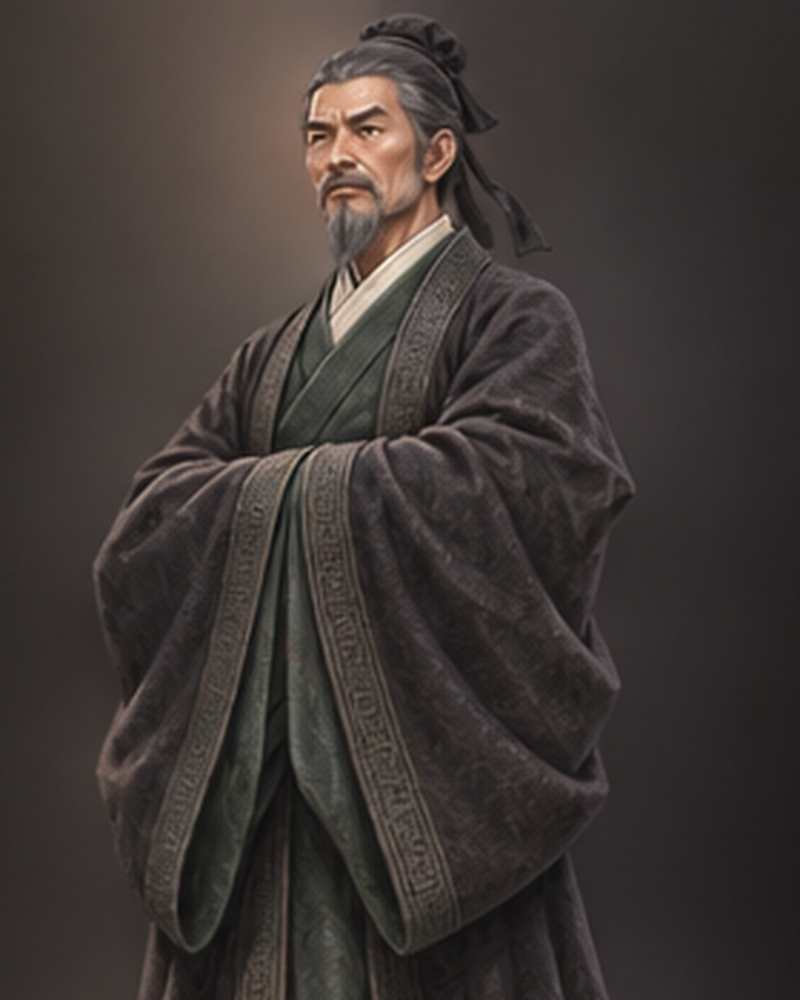
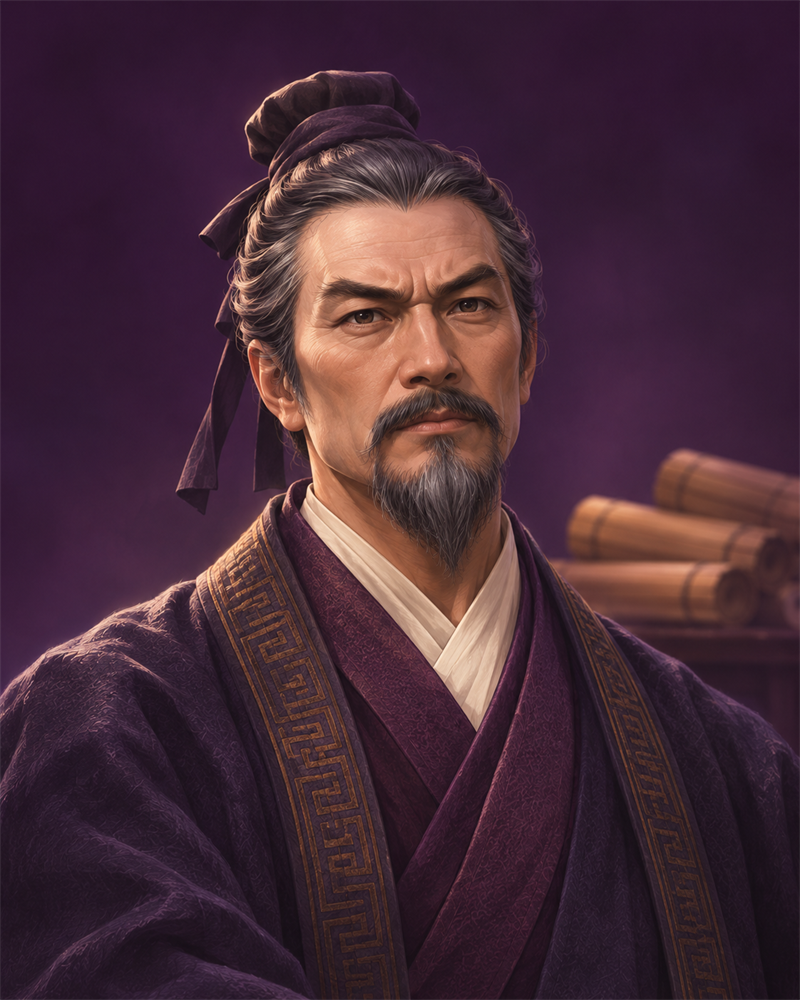
Add 23 character portraits and quote card illustrations

diff --git a/docs/illustrations-20261107/prompts.md b/docs/illustrations-20261107/prompts.md
@@ -1,0 +1,95 @@
+# 제작 프롬프트
+
+제작 도구: 내장 image_gen. 참고 이미지의 화풍과 기본 인물 그림을 사용하여 생성.
+
+## portrait-siddhartha.png
+
+Use case: illustration-story. Generate ONE finished individual image. Input image is STYLE REFERENCE ONLY; do not borrow the European man's facial features or loose wavy hairstyle. Main subject MUST read clearly as an adult ancient northern Indian man, with warm medium-brown skin, dark brown eyes, distinctly South Asian facial features and long straight black hair swept neatly back into a visible small low tied bun, no voluminous loose curls. Clearly hand-painted illustration with softly stylized planes. Face center at x=52%, y=35%; show entire head with ample top margin and upper torso. Composition: vertical 4:5 portrait, 800 x 1000 px. Head and shoulders of a single person. The face is centered at about 35 percent of the image height and very slightly right of the horizontal center, with generous space around the head, because the app crops this image into a narrow vertical strip and a small circle. Simple dark plum background with soft depth. Subject: a fictional, respectful reinterpretation of Prince Siddhartha before his awakening, an adult man around 29 of ancient northern Indian appearance. A serene young prince with closed-lip composure, gently lowered eyes, dark hair neatly tied back, wearing modest layered cream and plum robes that cover the shoulders and chest, with one small plain gold ornament. Soft dawn light, deep stillness. Dignified, gentle, and modest, not glamorous or seductive. This is a quiet human prince, not a devotional icon: no halo, no statue, no temple, no meditation throne, no sacred hand gesture, no religious symbols, nothing playful or mocking. Style: premium semi-realistic Korean webtoon collectible card illustration with sophisticated painterly lighting, polished and hand-painted in feel. Palette: deep plum #2A1147, violet #4B1F78, warm cream #FAF5E9, with restrained antique gold #B8862B accents. Classic, slightly provocative in attitude only, worth collecting. This is clearly an illustration, not a photograph, not photorealistic, and not a likeness copied from any real photo or existing artwork. Absolutely no text, letters, numbers, calligraphy, signatures, watermarks, logos, UI, or borders anywhere in the image. For an adult literary fandom app, but fully non-sexual: no nudity, no exposed chest or cleavage, no sensual pose, no sexual implication. No gore, no weapons, no caricature. Match the painting style of the attached image without copying its person.
+
+## portrait-siddhartha-stage1.png
+
+Use case: illustration-story. ONE individual portrait. Image is character and style reference. Preserve exactly this South Asian man's face, low tied black bun, costume and jewelry. Draw the same young human ancient Indian prince seated quietly with relaxed hands resting on his lap, eyes lifted to viewer with calm attentive acknowledgement, mouth neutral. Plain dark plum atmosphere with gentle morning light; a simple ancient wooden seat may be barely visible. No book, no library, no leather armchair, no European furniture, no extra props. Frame entire head and upper body. Subject: the same fictional character reinterpretation of young Prince Siddhartha, eyes lifted to meet the viewer with quiet attention, seated in soft morning light. No halo, statue, temple, sacred hand gesture, or religious symbols; respectful, never playful or mocking. Composition: vertical 4:5 portrait, 800 x 1000 px, head and upper body of one person, face at about 35 percent of the image height and near the horizontal center, because the app also crops into a narrow strip and a small circle. Keep exactly the same face, hair, age, and costume as the attached character image; only pose, expression, and light change. Match the painting style of the attached style image without copying its person. Style: premium semi-realistic Korean webtoon collectible card illustration with sophisticated painterly lighting. Background: simple dark plum with soft depth. Palette: deep plum #2A1147, violet #4B1F78, warm cream #FAF5E9, restrained antique gold #B8862B. Clearly an illustration, not a photograph, and not copied from any real photo or existing artwork. Absolutely no text, letters, numbers, calligraphy, signatures, watermarks, logos, UI, or borders. Fully non-sexual: modest clothing, no sensual pose, no romantic implication. No gore, no weapons, no caricature.
+
+## portrait-siddhartha-stage2.png
+
+Use case: illustration-story. Create ONE individual 4:5 finished illustration. Image 1 is the character identity and costume reference; preserve exactly his South Asian face, low tied black bun, skin, cream robe, plum outer robe and gold clasp. Image 2 is painting style only. Zoom out slightly from character reference to show hands and props while face stays centered horizontally and at 35% canvas height. Subject: the same fictional character reinterpretation of young Prince Siddhartha, a very faint kind smile, offering a simple clay bowl of food with both hands, as if asking whether the viewer has eaten. Warm dawn light. No halo, statue, temple, sacred hand gesture, or religious symbols; respectful, never playful or mocking. Composition: vertical 4:5 portrait, 800 x 1000 px, head and upper body of one person, face at about 35 percent of the image height and near the horizontal center, because the app also crops into a narrow strip and a small circle. Keep exactly the same face, hair, age, and costume as the attached character image; only pose, expression, and light change. Match the painting style of the attached style image without copying its person. Style: premium semi-realistic Korean webtoon collectible card illustration with sophisticated painterly lighting. Background: simple dark plum with soft depth. Palette: deep plum #2A1147, violet #4B1F78, warm cream #FAF5E9, restrained antique gold #B8862B. Clearly an illustration, not a photograph, and not copied from any real photo or existing artwork. Absolutely no text, letters, numbers, calligraphy, signatures, watermarks, logos, UI, or borders. Fully non-sexual: modest clothing, no sensual pose, no romantic implication. No gore, no weapons, no caricature.
+
+## portrait-siddhartha-stage3.png
+
+Use case: illustration-story. ONE finished portrait. Input image is the CHARACTER IDENTITY AND STYLE reference. Preserve exactly this person's face, hairstyle, age, skin and costume. Show head and upper body including required hands/props, face center at 35% image height. Subject: the same fictional character reinterpretation of young Prince Siddhartha, walking on a quiet dawn path, glancing back over the shoulder with gentle warmth, as if waiting for a friend to catch up. No halo, statue, temple, sacred hand gesture, or religious symbols; respectful, never playful or mocking. Composition: vertical 4:5 portrait, 800 x 1000 px, head and upper body of one person, face at about 35 percent of the image height and near the horizontal center, because the app also crops into a narrow strip and a small circle. Keep exactly the same face, hair, age, and costume as the attached character image; only pose, expression, and light change. Match the painting style of the attached style image without copying its person. Style: premium semi-realistic Korean webtoon collectible card illustration with sophisticated painterly lighting. Background: simple dark plum with soft depth. Palette: deep plum #2A1147, violet #4B1F78, warm cream #FAF5E9, restrained antique gold #B8862B. Clearly an illustration, not a photograph, and not copied from any real photo or existing artwork. Absolutely no text, letters, numbers, calligraphy, signatures, watermarks, logos, UI, or borders. Fully non-sexual: modest clothing, no sensual pose, no romantic implication. No gore, no weapons, no caricature.
+
+## portrait-austen.png
+
+Use case: illustration-story. ONE individual illustration. Input image 1 is STYLE REFERENCE only; copy rendering and lighting, not its man. Composition: vertical 4:5 portrait, 800 x 1000 px. Head and shoulders of a single person. The face is centered at about 35 percent of the image height and very slightly right of the horizontal center, with generous space around the head, because the app crops this image into a narrow vertical strip and a small circle. Simple dark plum background with soft depth. Subject: a fictional character reinterpretation of Jane Austen, an adult woman around 35, with a witty, observant half-smile and bright knowing eyes, dark curls under a simple cream cap. Early nineteenth-century English Regency dress in plum with a high modest neckline and a cream fichu covering the chest. Soft window light. Intelligent and quietly amused, not romanticized or glamorous. Style: premium semi-realistic Korean webtoon collectible card illustration with sophisticated painterly lighting, polished and hand-painted in feel. Palette: deep plum #2A1147, violet #4B1F78, warm cream #FAF5E9, with restrained antique gold #B8862B accents. Classic, slightly provocative in attitude only, worth collecting. This is clearly an illustration, not a photograph, not photorealistic, and not a likeness copied from any real photo or existing artwork. Absolutely no text, letters, numbers, calligraphy, signatures, watermarks, logos, UI, or borders anywhere in the image. For an adult literary fandom app, but fully non-sexual: no nudity, no exposed chest or cleavage, no sensual pose, no sexual implication. No gore, no weapons, no caricature. Match the painting style of the attached image without copying its person.
+
+## portrait-austen-stage1.png
+
+Use case: illustration-story. ONE finished portrait. Input image is the CHARACTER IDENTITY AND STYLE reference. Preserve exactly this person's face, hairstyle, age, skin and costume. Show head and upper body including required hands/props, face center at 35% image height. Subject: the same fictional character reinterpretation of Jane Austen, at a small writing desk, glancing up at the viewer with an amused knowing look, quill paused above a blank sheet. Composition: vertical 4:5 portrait, 800 x 1000 px, head and upper body of one person, face at about 35 percent of the image height and near the horizontal center, because the app also crops into a narrow strip and a small circle. Keep exactly the same face, hair, age, and costume as the attached character image; only pose, expression, and light change. Match the painting style of the attached style image without copying its person. Style: premium semi-realistic Korean webtoon collectible card illustration with sophisticated painterly lighting. Background: simple dark plum with soft depth. Palette: deep plum #2A1147, violet #4B1F78, warm cream #FAF5E9, restrained antique gold #B8862B. Clearly an illustration, not a photograph, and not copied from any real photo or existing artwork. Absolutely no text, letters, numbers, calligraphy, signatures, watermarks, logos, UI, or borders. Fully non-sexual: modest clothing, no sensual pose, no romantic implication. No gore, no weapons, no caricature.
+
+## portrait-austen-stage2.png
+
+Use case: illustration-story. ONE individual finished portrait. Input image is CHARACTER IDENTITY AND STYLE reference. Preserve exactly this woman's face, age, dark curls, cream cap and high covered neckline, plum dress and cream fichu. Show upper body and required hand action, head fully visible with face center at 35% canvas height. Subject: the same fictional character reinterpretation of Jane Austen, hugging a bound manuscript with a blank cover to her chest like a beloved child, proud and a little flustered, warm window light. Composition: vertical 4:5 portrait, 800 x 1000 px, head and upper body of one person, face at about 35 percent of the image height and near the horizontal center, because the app also crops into a narrow strip and a small circle. Keep exactly the same face, hair, age, and costume as the attached character image; only pose, expression, and light change. Match the painting style of the attached style image without copying its person. Style: premium semi-realistic Korean webtoon collectible card illustration with sophisticated painterly lighting. Background: simple dark plum with soft depth. Palette: deep plum #2A1147, violet #4B1F78, warm cream #FAF5E9, restrained antique gold #B8862B. Clearly an illustration, not a photograph, and not copied from any real photo or existing artwork. Absolutely no text, letters, numbers, calligraphy, signatures, watermarks, logos, UI, or borders. Fully non-sexual: modest clothing, no sensual pose, no romantic implication. No gore, no weapons, no caricature.
+
+## portrait-austen-stage3.png
+
+Use case: illustration-story. ONE individual finished portrait. Input image is CHARACTER IDENTITY AND STYLE reference. Preserve exactly this woman's face, age, dark curls, cream cap and high covered neckline, plum dress and cream fichu. Show upper body and required hand action, head fully visible with face center at 35% canvas height. Subject: the same fictional character reinterpretation of Jane Austen, laughing softly and leaning in as if sharing gossip with a close friend, one hand raised beside her mouth, a small blank notebook in the other hand. Composition: vertical 4:5 portrait, 800 x 1000 px, head and upper body of one person, face at about 35 percent of the image height and near the horizontal center, because the app also crops into a narrow strip and a small circle. Keep exactly the same face, hair, age, and costume as the attached character image; only pose, expression, and light change. Match the painting style of the attached style image without copying its person. Style: premium semi-realistic Korean webtoon collectible card illustration with sophisticated painterly lighting. Background: simple dark plum with soft depth. Palette: deep plum #2A1147, violet #4B1F78, warm cream #FAF5E9, restrained antique gold #B8862B. Clearly an illustration, not a photograph, and not copied from any real photo or existing artwork. Absolutely no text, letters, numbers, calligraphy, signatures, watermarks, logos, UI, or borders. Fully non-sexual: modest clothing, no sensual pose, no romantic implication. No gore, no weapons, no caricature.
+
+## portrait-nietzsche-stage1.png
+
+Use case: illustration-story. ONE individual 4:5 portrait, recompose the landscape reference into a centered vertical upper-body portrait. Input is CHARACTER IDENTITY AND PAINTING STYLE reference. Preserve exactly his distinctive thick mustache, swept brown hair, mature face, cream shirt and plum cravat; apply coat-off only when requested. Blank books with no markings. Face at x=50%, y=35%; generous top margin. Subject: the same fictional character reinterpretation of Friedrich Nietzsche, in his candlelit library, lowering his open book and glancing straight at the viewer with one raised eyebrow, testing them, the corner of the mustache barely lifting. Composition: vertical 4:5 portrait, 800 x 1000 px, head and upper body of one person, face at about 35 percent of the image height and near the horizontal center, because the app also crops into a narrow strip and a small circle. Keep exactly the same face, hair, age, and costume as the attached character image; only pose, expression, and light change. Match the painting style of the attached style image without copying its person. Style: premium semi-realistic Korean webtoon collectible card illustration with sophisticated painterly lighting. Background: simple dark plum with soft depth. Palette: deep plum #2A1147, violet #4B1F78, warm cream #FAF5E9, restrained antique gold #B8862B. Clearly an illustration, not a photograph, and not copied from any real photo or existing artwork. Absolutely no text, letters, numbers, calligraphy, signatures, watermarks, logos, UI, or borders. Fully non-sexual: modest clothing, no sensual pose, no romantic implication. No gore, no weapons, no caricature.
+
+## portrait-nietzsche-stage2.png
+
+Use case: illustration-story. ONE individual 4:5 portrait, recompose the landscape reference into a centered vertical upper-body portrait. Input is CHARACTER IDENTITY AND PAINTING STYLE reference. Preserve exactly his distinctive thick mustache, swept brown hair, mature face, cream shirt and plum cravat; apply coat-off only when requested. Blank books with no markings. Face at x=50%, y=35%; generous top margin. Subject: the same fictional character reinterpretation of Friedrich Nietzsche, on a gray rainy afternoon by a window, coat off, cravat slightly loosened, a cup of tea beside him, looking away with an embarrassed half-smile while holding out a book. Fussy and endearing, healthy and dignified, with no sign of illness or madness. Composition: vertical 4:5 portrait, 800 x 1000 px, head and upper body of one person, face at about 35 percent of the image height and near the horizontal center, because the app also crops into a narrow strip and a small circle. Keep exactly the same face, hair, age, and costume as the attached character image; only pose, expression, and light change. Match the painting style of the attached style image without copying its person. Style: premium semi-realistic Korean webtoon collectible card illustration with sophisticated painterly lighting. Background: simple dark plum with soft depth. Palette: deep plum #2A1147, violet #4B1F78, warm cream #FAF5E9, restrained antique gold #B8862B. Clearly an illustration, not a photograph, and not copied from any real photo or existing artwork. Absolutely no text, letters, numbers, calligraphy, signatures, watermarks, logos, UI, or borders. Fully non-sexual: modest clothing, no sensual pose, no romantic implication. No gore, no weapons, no caricature.
+
+## portrait-nietzsche-stage3.png
+
+Use case: illustration-story. ONE individual finished vertical portrait. Input image is CHARACTER IDENTITY AND STYLE reference. Preserve exactly face, hair, age, costume; recompose so hands and requested props fit with face center at 35% canvas height. Subject: the same fictional character reinterpretation of Friedrich Nietzsche, relaxed in an armchair among stacks of blank-spined books, smiling openly for the first time under the mustache, pushing a second cup of tea toward the viewer. Warm candlelight, healthy and dignified. Composition: vertical 4:5 portrait, 800 x 1000 px, head and upper body of one person, face at about 35 percent of the image height and near the horizontal center, because the app also crops into a narrow strip and a small circle. Keep exactly the same face, hair, age, and costume as the attached character image; only pose, expression, and light change. Match the painting style of the attached style image without copying its person. Style: premium semi-realistic Korean webtoon collectible card illustration with sophisticated painterly lighting. Background: simple dark plum with soft depth. Palette: deep plum #2A1147, violet #4B1F78, warm cream #FAF5E9, restrained antique gold #B8862B. Clearly an illustration, not a photograph, and not copied from any real photo or existing artwork. Absolutely no text, letters, numbers, calligraphy, signatures, watermarks, logos, UI, or borders. Fully non-sexual: modest clothing, no sensual pose, no romantic implication. No gore, no weapons, no caricature.
+
+## portrait-xunzi.png
+
+Use case: illustration-story. ONE individual illustration. Input image 1 is STYLE REFERENCE only; copy rendering and lighting, not its man. Input image 2 is XUNZI CHARACTER reference: preserve his facial identity, graying tied topknot and neat beard, recolor robes per brief. Composition: vertical 4:5 portrait, 800 x 1000 px. Head and shoulders of a single person. The face is centered at about 35 percent of the image height and very slightly right of the horizontal center, with generous space around the head, because the app crops this image into a narrow vertical strip and a small circle. Simple dark plum background with soft depth. Subject: a fictional character reinterpretation of Xunzi, an adult Chinese scholar of the Warring States period, around 50, with a stern, clear gaze, a neat beard, and hair tied in a simple topknot with a plain cap. Layered deep indigo and plum scholar robes in an ancient Chinese style with a cream inner collar. Blank bamboo slips blurred in the background with no writing on them. Severe, disciplined, and thoughtful, not exaggerated. Style: premium semi-realistic Korean webtoon collectible card illustration with sophisticated painterly lighting, polished and hand-painted in feel. Palette: deep plum #2A1147, violet #4B1F78, warm cream #FAF5E9, with restrained antique gold #B8862B accents. Classic, slightly provocative in attitude only, worth collecting. This is clearly an illustration, not a photograph, not photorealistic, and not a likeness copied from any real photo or existing artwork. Absolutely no text, letters, numbers, calligraphy, signatures, watermarks, logos, UI, or borders anywhere in the image. For an adult literary fandom app, but fully non-sexual: no nudity, no exposed chest or cleavage, no sensual pose, no sexual implication. No gore, no weapons, no caricature. Match the painting style of the attached image without copying its person.
+
+## portrait-xunzi-stage1.png
+
+Use case: illustration-story. ONE individual finished vertical portrait. Input image is CHARACTER IDENTITY AND STYLE reference. Preserve exactly face, hair, age, costume; recompose so hands and requested props fit with face center at 35% canvas height. Subject: the same fictional character reinterpretation of Xunzi, standing, one arm extended in a teaching gesture toward the viewer, a bundle of blank bamboo slips under the other arm, stern but engaged. Composition: vertical 4:5 portrait, 800 x 1000 px, head and upper body of one person, face at about 35 percent of the image height and near the horizontal center, because the app also crops into a narrow strip and a small circle. Keep exactly the same face, hair, age, and costume as the attached character image; only pose, expression, and light change. Match the painting style of the attached style image without copying its person. Style: premium semi-realistic Korean webtoon collectible card illustration with sophisticated painterly lighting. Background: simple dark plum with soft depth. Palette: deep plum #2A1147, violet #4B1F78, warm cream #FAF5E9, restrained antique gold #B8862B. Clearly an illustration, not a photograph, and not copied from any real photo or existing artwork. Absolutely no text, letters, numbers, calligraphy, signatures, watermarks, logos, UI, or borders. Fully non-sexual: modest clothing, no sensual pose, no romantic implication. No gore, no weapons, no caricature.
+
+## portrait-xunzi-stage2.png
+
+Use case: illustration-story. ONE individual finished portrait. Input image is CHARACTER IDENTITY AND STYLE reference. Preserve exactly Xunzi's mature face, graying hair in topknot cap, neat beard, plum scholar robe and cream collar. Show upper body and requested hand action, face at 35% height. Bamboo surfaces must be completely blank. Subject: the same fictional character reinterpretation of Xunzi, seated at a low wooden desk correcting blank bamboo slips with a brush, looking up from under his brows with severe concern, an untouched bowl of rice pushed toward the viewer's side. Composition: vertical 4:5 portrait, 800 x 1000 px, head and upper body of one person, face at about 35 percent of the image height and near the horizontal center, because the app also crops into a narrow strip and a small circle. Keep exactly the same face, hair, age, and costume as the attached character image; only pose, expression, and light change. Match the painting style of the attached style image without copying its person. Style: premium semi-realistic Korean webtoon collectible card illustration with sophisticated painterly lighting. Background: simple dark plum with soft depth. Palette: deep plum #2A1147, violet #4B1F78, warm cream #FAF5E9, restrained antique gold #B8862B. Clearly an illustration, not a photograph, and not copied from any real photo or existing artwork. Absolutely no text, letters, numbers, calligraphy, signatures, watermarks, logos, UI, or borders. Fully non-sexual: modest clothing, no sensual pose, no romantic implication. No gore, no weapons, no caricature.
+
+## portrait-xunzi-stage3.png
+
+Use case: illustration-story. ONE individual finished portrait. Input image is CHARACTER IDENTITY AND STYLE reference. Preserve exactly Xunzi's mature face, graying hair in topknot cap, neat beard, plum scholar robe and cream collar. Show upper body and requested hand action, face at 35% height. Bamboo surfaces must be completely blank. Subject: the same fictional character reinterpretation of Xunzi, seated, a rare faint proud smile, holding out a blank bamboo slip to the viewer with one hand as if entrusting it. Warm lamp light. Composition: vertical 4:5 portrait, 800 x 1000 px, head and upper body of one person, face at about 35 percent of the image height and near the horizontal center, because the app also crops into a narrow strip and a small circle. Keep exactly the same face, hair, age, and costume as the attached character image; only pose, expression, and light change. Match the painting style of the attached style image without copying its person. Style: premium semi-realistic Korean webtoon collectible card illustration with sophisticated painterly lighting. Background: simple dark plum with soft depth. Palette: deep plum #2A1147, violet #4B1F78, warm cream #FAF5E9, restrained antique gold #B8862B. Clearly an illustration, not a photograph, and not copied from any real photo or existing artwork. Absolutely no text, letters, numbers, calligraphy, signatures, watermarks, logos, UI, or borders. Fully non-sexual: modest clothing, no sensual pose, no romantic implication. No gore, no weapons, no caricature.
+
+## card-siddhartha-common.png
+
+Use case: illustration-story. ONE continuous panoramic environment artwork, target aspect ratio 12:5, no panels. Input is painted STYLE AND COLOR reference only, do not include its people, furniture, books or interior. Composition: wide panoramic banner, 960 x 400 px, no people, no faces. One clear central subject kept inside the middle 80 percent of the height, because the app crops the top and bottom a little. Quiet atmospheric surroundings. Tone: common card, calm and understated, with almost no gold. Subject: still water at first light with a single closed lotus bud at the center, faint ripples, plum and cream reflections. A peaceful nature scene with no statues or religious symbols. Style: premium semi-realistic Korean webtoon collectible card illustration with sophisticated painterly lighting, polished and hand-painted in feel. Palette: deep plum #2A1147, violet #4B1F78, warm cream #FAF5E9, with restrained antique gold #B8862B accents. Classic, slightly provocative in attitude only, worth collecting. This is clearly an illustration, not a photograph, not photorealistic, and not a likeness copied from any real photo or existing artwork. Absolutely no text, letters, numbers, calligraphy, signatures, watermarks, logos, UI, or borders anywhere in the image. For an adult literary fandom app, but fully non-sexual: no nudity, no exposed chest or cleavage, no sensual pose, no sexual implication. No gore, no weapons, no caricature.
+
+## card-siddhartha-rare.png
+
+Use case: illustration-story. ONE continuous panoramic environment artwork, target aspect ratio 12:5, no panels. Input is painted STYLE AND COLOR reference only, do not include its people, furniture, books or interior. Composition: wide panoramic banner, 960 x 400 px, no people, no faces. One clear central subject kept inside the middle 80 percent of the height, because the app crops the top and bottom a little. Quiet atmospheric surroundings. Tone: rare card, more luminous and special, with delicate antique gold light or ornamental glints inside the scene, but no frame or border. Subject: a great old bodhi tree silhouetted at the center, with heart-shaped leaves and the first gold light of dawn behind it. No person, no statue, no shrine, no halo; reverent and silent. Style: premium semi-realistic Korean webtoon collectible card illustration with sophisticated painterly lighting, polished and hand-painted in feel. Palette: deep plum #2A1147, violet #4B1F78, warm cream #FAF5E9, with restrained antique gold #B8862B accents. Classic, slightly provocative in attitude only, worth collecting. This is clearly an illustration, not a photograph, not photorealistic, and not a likeness copied from any real photo or existing artwork. Absolutely no text, letters, numbers, calligraphy, signatures, watermarks, logos, UI, or borders anywhere in the image. For an adult literary fandom app, but fully non-sexual: no nudity, no exposed chest or cleavage, no sensual pose, no sexual implication. No gore, no weapons, no caricature.
+
+## card-nietzsche-common.png
+
+Use case: illustration-story. ONE continuous panoramic artwork, exact target aspect ratio 12:5, no panels. Input is STYLE AND PALETTE reference only; no people, no faces, no furniture, no books, no statues. Composition: wide panoramic banner, 960 x 400 px, no people, no faces. One clear central subject kept inside the middle 80 percent of the height, because the app crops the top and bottom a little. Quiet atmospheric surroundings. Tone: common card, calm and understated, with almost no gold. Subject: a rough, steep mountain path winding toward a high alpine ridge at dusk, weathered rocks and thin mist, a sense of hard solitary climbing. Style: premium semi-realistic Korean webtoon collectible card illustration with sophisticated painterly lighting, polished and hand-painted in feel. Palette: deep plum #2A1147, violet #4B1F78, warm cream #FAF5E9, with restrained antique gold #B8862B accents. Classic, slightly provocative in attitude only, worth collecting. This is clearly an illustration, not a photograph, not photorealistic, and not a likeness copied from any real photo or existing artwork. Absolutely no text, letters, numbers, calligraphy, signatures, watermarks, logos, UI, or borders anywhere in the image. For an adult literary fandom app, but fully non-sexual: no nudity, no exposed chest or cleavage, no sensual pose, no sexual implication. No gore, no weapons, no caricature.
+
+## card-nietzsche-rare.png
+
+Use case: illustration-story. ONE continuous panoramic artwork, exact target aspect ratio 12:5, no panels. Input is STYLE AND PALETTE reference only; no people, no faces, no furniture, no books, no statues. Composition: wide panoramic banner, 960 x 400 px, no people, no faces. One clear central subject kept inside the middle 80 percent of the height, because the app crops the top and bottom a little. Quiet atmospheric surroundings. Tone: rare card, more luminous and special, with delicate antique gold light or ornamental glints inside the scene, but no frame or border. Subject: one brilliant star at the center, born from swirling violet and plum chaos of cloud and light, as if dancing. Dramatic but elegant. Style: premium semi-realistic Korean webtoon collectible card illustration with sophisticated painterly lighting, polished and hand-painted in feel. Palette: deep plum #2A1147, violet #4B1F78, warm cream #FAF5E9, with restrained antique gold #B8862B accents. Classic, slightly provocative in attitude only, worth collecting. This is clearly an illustration, not a photograph, not photorealistic, and not a likeness copied from any real photo or existing artwork. Absolutely no text, letters, numbers, calligraphy, signatures, watermarks, logos, UI, or borders anywhere in the image. For an adult literary fandom app, but fully non-sexual: no nudity, no exposed chest or cleavage, no sensual pose, no sexual implication. No gore, no weapons, no caricature.
+
+## card-austen-common.png
+
+Use case: illustration-story. ONE continuous panoramic environment illustration, target aspect ratio 12:5, no panels. Input is STYLE AND PALETTE reference only; no people, no faces, no busts or statues. Any book or paper must have entirely blank surfaces without even pseudo lettering. Composition: wide panoramic banner, 960 x 400 px, no people, no faces. One clear central subject kept inside the middle 80 percent of the height, because the app crops the top and bottom a little. Quiet atmospheric surroundings. Tone: common card, calm and understated, with almost no gold. Subject: an empty early nineteenth-century English ballroom, a row of candles and one modest chandelier at the center, polished floor reflections, plum drapery. Style: premium semi-realistic Korean webtoon collectible card illustration with sophisticated painterly lighting, polished and hand-painted in feel. Palette: deep plum #2A1147, violet #4B1F78, warm cream #FAF5E9, with restrained antique gold #B8862B accents. Classic, slightly provocative in attitude only, worth collecting. This is clearly an illustration, not a photograph, not photorealistic, and not a likeness copied from any real photo or existing artwork. Absolutely no text, letters, numbers, calligraphy, signatures, watermarks, logos, UI, or borders anywhere in the image. For an adult literary fandom app, but fully non-sexual: no nudity, no exposed chest or cleavage, no sensual pose, no sexual implication. No gore, no weapons, no caricature.
+
+## card-austen-rare.png
+
+Use case: illustration-story. ONE continuous panoramic environment illustration, target aspect ratio 12:5, no panels. Input is STYLE AND PALETTE reference only; no people, no faces, no busts or statues. Any book or paper must have entirely blank surfaces without even pseudo lettering. Composition: wide panoramic banner, 960 x 400 px, no people, no faces. One clear central subject kept inside the middle 80 percent of the height, because the app crops the top and bottom a little. Quiet atmospheric surroundings. Tone: rare card, more luminous and special, with delicate antique gold light or ornamental glints inside the scene, but no frame or border. Subject: a Regency writing desk in a quiet study with a feather quill at the center, an inkwell, closed books with blank covers, and a blank sheet of paper with no writing. Style: premium semi-realistic Korean webtoon collectible card illustration with sophisticated painterly lighting, polished and hand-painted in feel. Palette: deep plum #2A1147, violet #4B1F78, warm cream #FAF5E9, with restrained antique gold #B8862B accents. Classic, slightly provocative in attitude only, worth collecting. This is clearly an illustration, not a photograph, not photorealistic, and not a likeness copied from any real photo or existing artwork. Absolutely no text, letters, numbers, calligraphy, signatures, watermarks, logos, UI, or borders anywhere in the image. For an adult literary fandom app, but fully non-sexual: no nudity, no exposed chest or cleavage, no sensual pose, no sexual implication. No gore, no weapons, no caricature.
+
+## card-xunzi-common.png
+
+Use case: illustration-story. ONE continuous panoramic ancient Chinese workshop artwork, target aspect ratio 12:5, no panels. Input image is painted STYLE AND PALETTE reference only, not its European objects. No people, faces, hands, books, busts, European furniture or modern equipment. Main craft subject centered and clearly readable. Composition: wide panoramic banner, 960 x 400 px, no people, no faces. One clear central subject kept inside the middle 80 percent of the height, because the app crops the top and bottom a little. Quiet atmospheric surroundings. Tone: common card, calm and understated, with almost no gold. Subject: a crooked length of wood being straightened in a simple ancient Chinese wooden press beside a steaming workbench at the center, patient craft, no people or hands visible. Style: premium semi-realistic Korean webtoon collectible card illustration with sophisticated painterly lighting, polished and hand-painted in feel. Palette: deep plum #2A1147, violet #4B1F78, warm cream #FAF5E9, with restrained antique gold #B8862B accents. Classic, slightly provocative in attitude only, worth collecting. This is clearly an illustration, not a photograph, not photorealistic, and not a likeness copied from any real photo or existing artwork. Absolutely no text, letters, numbers, calligraphy, signatures, watermarks, logos, UI, or borders anywhere in the image. For an adult literary fandom app, but fully non-sexual: no nudity, no exposed chest or cleavage, no sensual pose, no sexual implication. No gore, no weapons, no caricature.
+
+## card-xunzi-rare.png
+
+Use case: illustration-story. ONE continuous panoramic ancient Chinese workshop artwork, target aspect ratio 12:5, no panels. Input image is painted STYLE AND PALETTE reference only, not its European objects. No people, faces, hands, books, busts, European furniture or modern equipment. Main craft subject centered and clearly readable. Composition: wide panoramic banner, 960 x 400 px, no people, no faces. One clear central subject kept inside the middle 80 percent of the height, because the app crops the top and bottom a little. Quiet atmospheric surroundings. Tone: rare card, more luminous and special, with delicate antique gold light or ornamental glints inside the scene, but no frame or border. Subject: a long length of cloth dyed brilliant indigo blue hanging at the center, above a vat of dark indigo-plant dye, with the blue visibly deeper and brighter than the plant leaves beside it. No patterns resembling writing. Style: premium semi-realistic Korean webtoon collectible card illustration with sophisticated painterly lighting, polished and hand-painted in feel. Palette: deep plum #2A1147, violet #4B1F78, warm cream #FAF5E9, with restrained antique gold #B8862B accents. Classic, slightly provocative in attitude only, worth collecting. This is clearly an illustration, not a photograph, not photorealistic, and not a likeness copied from any real photo or existing artwork. Absolutely no text, letters, numbers, calligraphy, signatures, watermarks, logos, UI, or borders anywhere in the image. For an adult literary fandom app, but fully non-sexual: no nudity, no exposed chest or cleavage, no sensual pose, no sexual implication. No gore, no weapons, no caricature.

diff --git a/docs/illustrations-20261107/README.md b/docs/illustrations-20261107/README.md
@@ -1,0 +1,20 @@
+# 일러스트 23종 반영
+
+2026-11-07 제작. [제작 계획](../일러스트-제작-계획.md)을 참고하여 내장 image_gen으로 생성했습니다.
+
+| 분류 | 수량 | 규격 |
+|---|---:|---|
+| 싯다르타·제인 오스틴·순자 기본 및 1~3단계 | 12 | 800×1000 PNG |
+| 니체 1~3단계 | 3 | 800×1000 PNG |
+| 인물별 일반·희귀 문장 카드 | 8 | 960×400 PNG |
+
+실제 앱 파일은 [`public/images/`](../../public/images/)에 있습니다. 순자의 임시 초상 4장은 새 그림으로 교체했습니다. 니체 기본 초상은 기존 `src/assets/nietzsche.png`를 사용합니다.
+
+- [인물 단계 비교](preview-portraits.jpg): 니체 0단계는 기존 기본 초상 참고입니다.
+- [문장 카드 비교](preview-cards.jpg)
+- [최종 생성 프롬프트](prompts.md)
+- [파일 규격 및 SHA-256 검증 기록](verification.json)
+
+파일명 23개와 PNG 규격을 점검하고, 제작 원본과 복사본의 SHA-256이 같은지 확인했습니다. 생성 결과와 비교 미리보기에서 얼굴·의상 연결, 포즈 변화, 문자·로고·테두리 유무를 육안으로 확인했습니다. 실제 앱의 좁은 이미지 영역 및 원형 아바타 렌더링은 별도로 검수하지 않았습니다.
+
+저장소 반영 후 `npm test`의 87개 테스트와 `npm run build`가 통과했습니다. 빌드 결과의 이미지 23장도 제작본과 SHA-256이 일치합니다. 빌드에는 기존 JavaScript 청크 크기 경고가 있습니다.
